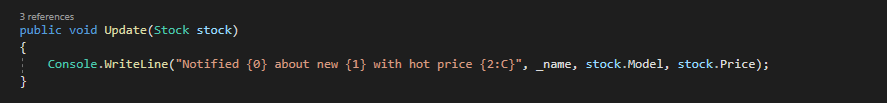
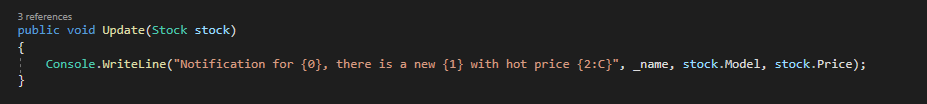
implement strategy dp & edit md file

diff --git a/lab_SDTM/device_factory/Program.cs b/lab_SDTM/device_factory/Program.cs
@@ -124,6 +124,27 @@ namespace lab1_SDTM
             device.Price = 440;
             device.Price = 390;
 
+            Console.WriteLine("\n===============================================================================");
+            Console.WriteLine(interestedClient + ", thanks for choosing our site :) \n");
+
+            SortedDevices sortedDevices = new SortedDevices();
+
+            sortedDevices.Add("Samsung Galaxy S20 FE");
+            sortedDevices.Add("Apple iPhone 12");
+            sortedDevices.Add("Xiaomi Mi 10T Lite");
+
+            sortedDevices.SetSortStrategy(new SortBasedOnSearch());
+            sortedDevices.Sort();
+
+            SortedDevices sortedDevicesByReview = new SortedDevices();
+
+            sortedDevicesByReview.Add("iPhone 12 Pro Max");
+            sortedDevicesByReview.Add("Samsung Galaxy Note 20 Ultra");
+            sortedDevicesByReview.Add("OnePlus 8 Pro");
+
+            sortedDevicesByReview.SetSortStrategy(new SortBasedOnReviews());
+            sortedDevicesByReview.Sort();
+
             Console.ReadLine();
         }
     }

diff --git a/lab_SDTM/device/SortedDevices.cs b/lab_SDTM/device/SortedDevices.cs
@@ -1,0 +1,33 @@
+using System;
+using System.Collections.Generic;
+using System.Text;
+
+namespace design_patterns.device
+{
+    class SortedDevices
+    {
+        private List<string> _list = new List<string>();
+        private SortStrategy _sortstrategy;
+
+        public void SetSortStrategy(SortStrategy sortstrategy)
+        {
+            this._sortstrategy = sortstrategy;
+        }
+
+        public void Add(string model)
+        {
+            _list.Add(model);
+        }
+
+        public void Sort()
+        {
+            _sortstrategy.Sort(_list);
+
+            foreach (string model in _list)
+            {
+                Console.WriteLine(" " + model);
+            }
+            Console.WriteLine();
+        }
+    }
+}

diff --git a/lab_SDTM/device/SortBasedOnReviews.cs b/lab_SDTM/device/SortBasedOnReviews.cs
@@ -1,0 +1,16 @@
+using System;
+using System.Collections.Generic;
+using System.Text;
+
+namespace design_patterns.device
+{
+    class SortBasedOnReviews : SortStrategy
+    {
+        public override void Sort(List<string> list)
+        {
+            //list.BasedOnReviewsSort(); not-implemented
+
+            Console.WriteLine("You might also be interested in most rated devices: ");
+        }
+    }
+}

diff --git a/lab_SDTM/device/SortBasedOnSearch.cs b/lab_SDTM/device/SortBasedOnSearch.cs
@@ -1,0 +1,16 @@
+using System;
+using System.Collections.Generic;
+using System.Text;
+
+namespace design_patterns.device
+{
+    class SortBasedOnSearch : SortStrategy
+    {
+        public override void Sort(List<string> list)
+        {
+            list.Sort(); 
+
+            Console.WriteLine("You might be interested in the following devices based on your search list: ");
+        }
+    }
+}

diff --git a/lab_SDTM/client/Client.cs b/lab_SDTM/client/Client.cs
@@ -41,7 +41,7 @@ namespace lab1_SDTM
 
         public void Update(Stock stock)
         {
-            Console.WriteLine("Notified {0} about new {1} with hot price {2:C}", _name, stock.Model, stock.Price);
+            Console.WriteLine("Notification for {0}, there is a new {1} with hot price {2:C}", _name, stock.Model, stock.Price);
         }
 
         public Stock Stock

diff --git a/lab_SDTM/device/SortStrategy.cs b/lab_SDTM/device/SortStrategy.cs
@@ -1,0 +1,11 @@
+using System;
+using System.Collections.Generic;
+using System.Text;
+
+namespace design_patterns.device
+{
+    abstract class SortStrategy
+    {
+        public abstract void Sort(List<string> list);
+    }
+}

diff --git a/lab_SDTM/Behavioral_DP.md b/lab_SDTM/Behavioral_DP.md
@@ -18,9 +18,10 @@ Behavioral design patterns are concerned with algorithms and the assignment of r
 - Visitor
 # Implementation:
 
-In this project I have implemented 1 Behavioral Design Pattern which is Observer. As a domain I used Factory which manufactures devices 
+In this project I have implemented 2 Behavioral Design Patterns which are Observer and Strategy. As a domain I used Factory which manufactures devices 
 and prepares packages with additional supplies for them. Using this behavioral design pattern I've implement some additional functionalities like: 
-* notifying specific clients which are interested in new devices and best prices;
+* notifying specific clients which are interested in new devices and best prices; [Observer]
+* providing a list of sorted devices based on two algorithms: sort by user's search list and by reviews; [Strategy]
 
 With Observer design pattern I defined a one-to-many dependency between objects so that when one object changes state, all its dependents are notified and updated automatically. For its implementation I have 4 participant components: Stock.cs [Subject], Device.cs [ConcreteSubject], IClient.cs [Observer] and Client.cs [ConcreteObserver].
 
@@ -44,9 +45,25 @@ __Client.cs__ class from _client_ folder maintains a reference to a Device objec
 
 ![](images/screen_lab3_5.png)
 
-In final this application provides a list of devices that Factory manufactures and allows user to input the device model they want to purchase. After it user is able to see the rating of this device given by other customers. Also, a list of sold device is provided with their specific details at the time of current day. Due to Observer design pattern client is able to register their name if they want to be notified about new devices and hot prices. Only interested users are notified.
+With Strategy design pattern I define a family of algorithms, encapsulated each one, and made them interchangeable. Strategy lets the algorithm vary independently from clients that use it. The classes and objects participating in this pattern are: SortStrategy.cs [Strategy], SortBasedOnSearch.cs and SortBasedOnReviews.cs [ConcreteStrategy], SortedDevices.cs [Context]. The UML diagram looks like following:
+
+![](images/screen_lab3_7.png)
+
+__SortStrategy.cs__ from _device_ folder declares an interface common to all supported algorithms. Context uses this interface to call the algorithm defined by a Concrete Strategy.
+
+![](images/screen_lab3_8.png)
+
+__SortBasedOnSearch.cs__ & __SortBasedOnReview__ classes implements the algorithm using the Strategy interface.
+
+![](images/screen_lab3_9.png)
+
+__SortedDevices.cs__ is configured with a Concrete Strategy object, it maintains a reference to a Strategy object and may define an interface that lets Strategy access its data.
+
+![](images/screen_lab3_10.png)
+
+In final this application provides a list of devices that Factory manufactures and allows user to input the device model they want to purchase. After it user is able to see the rating of this device given by other customers. Also, a list of sold device is provided with their specific details at the time of current day. Due to __Observer__ design pattern client is able to register their name if they want to be notified about new devices and hot prices. Only interested users are notified. With __Strategy__, users are able to see a sorted list of devices based on their search list and based on highest reviews that devices have.
 
 
 # Screenshot:
 
-![](images/screen_lab3_6.png)
+![](images/screen_lab3_11.png)
